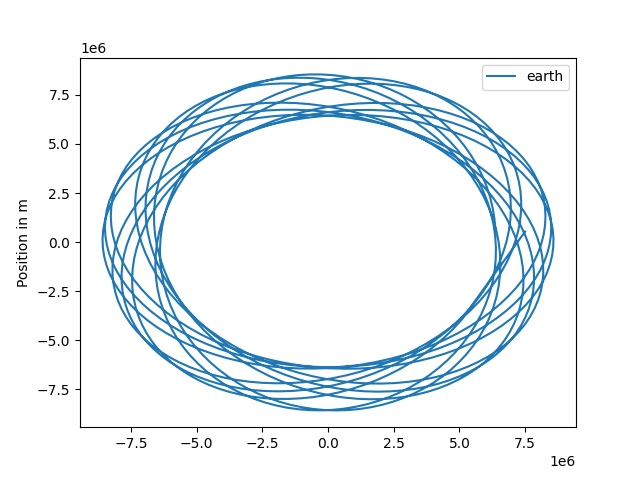
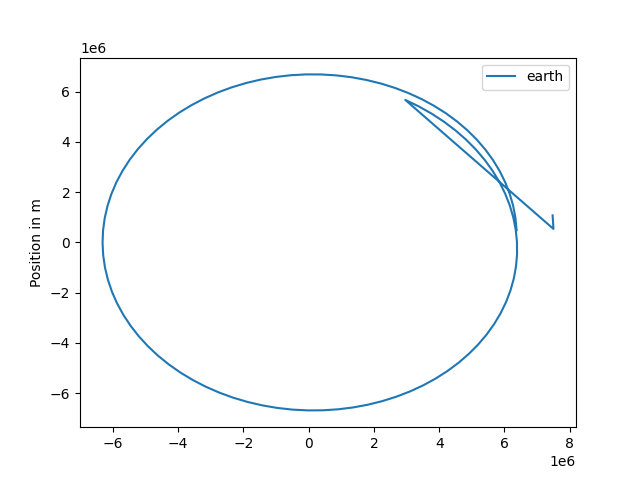
weird

diff --git a/satellite.py b/satellite.py
@@ -36,14 +36,15 @@ def step():
       z.update_force(G=G, distance=abs(distance))
       i.apply_force(z.force * math.cos(angle_radians), z.force * math.sin(angle_radians), deltaT)
 
-drawnEarth = Object(y=0, x=6.371e6, xVelocity=0, yVelocity=9820)
-for j in range(1000):
+drawnEarth = Object(y=0, x=6.371e6, xVelocity=0, yVelocity=8160)
+for j in range(100):
   drawnEarth.move(60)
   delta_x = 0 - drawnEarth.x
   delta_y = 0 - drawnEarth.y
   distance = math.sqrt(delta_x**2 + delta_y**2)
   angle_radians = math.atan2(delta_y, delta_x)
   drawnEarth.apply_force(9.82 * math.cos(angle_radians), 9.82 * math.sin(angle_radians), 60)
+  print(drawnEarth.x, drawnEarth.y)
 
 if Settings.saveToLogEveryNthStep > 0:
   with open('log.txt', 'w') as logFile:

diff --git a/Settings.py b/Settings.py
@@ -4,6 +4,6 @@ satelliteStartingXVelocity = 0
 satelliteStartingYVelocity = 9000
 
 deltaT:float = 60
-amountOfSteps:int =1#350#*600
+amountOfSteps:int =2#350#*600
 printEveryNthStep:int = 10
 saveToLogEveryNthStep:int = 100
